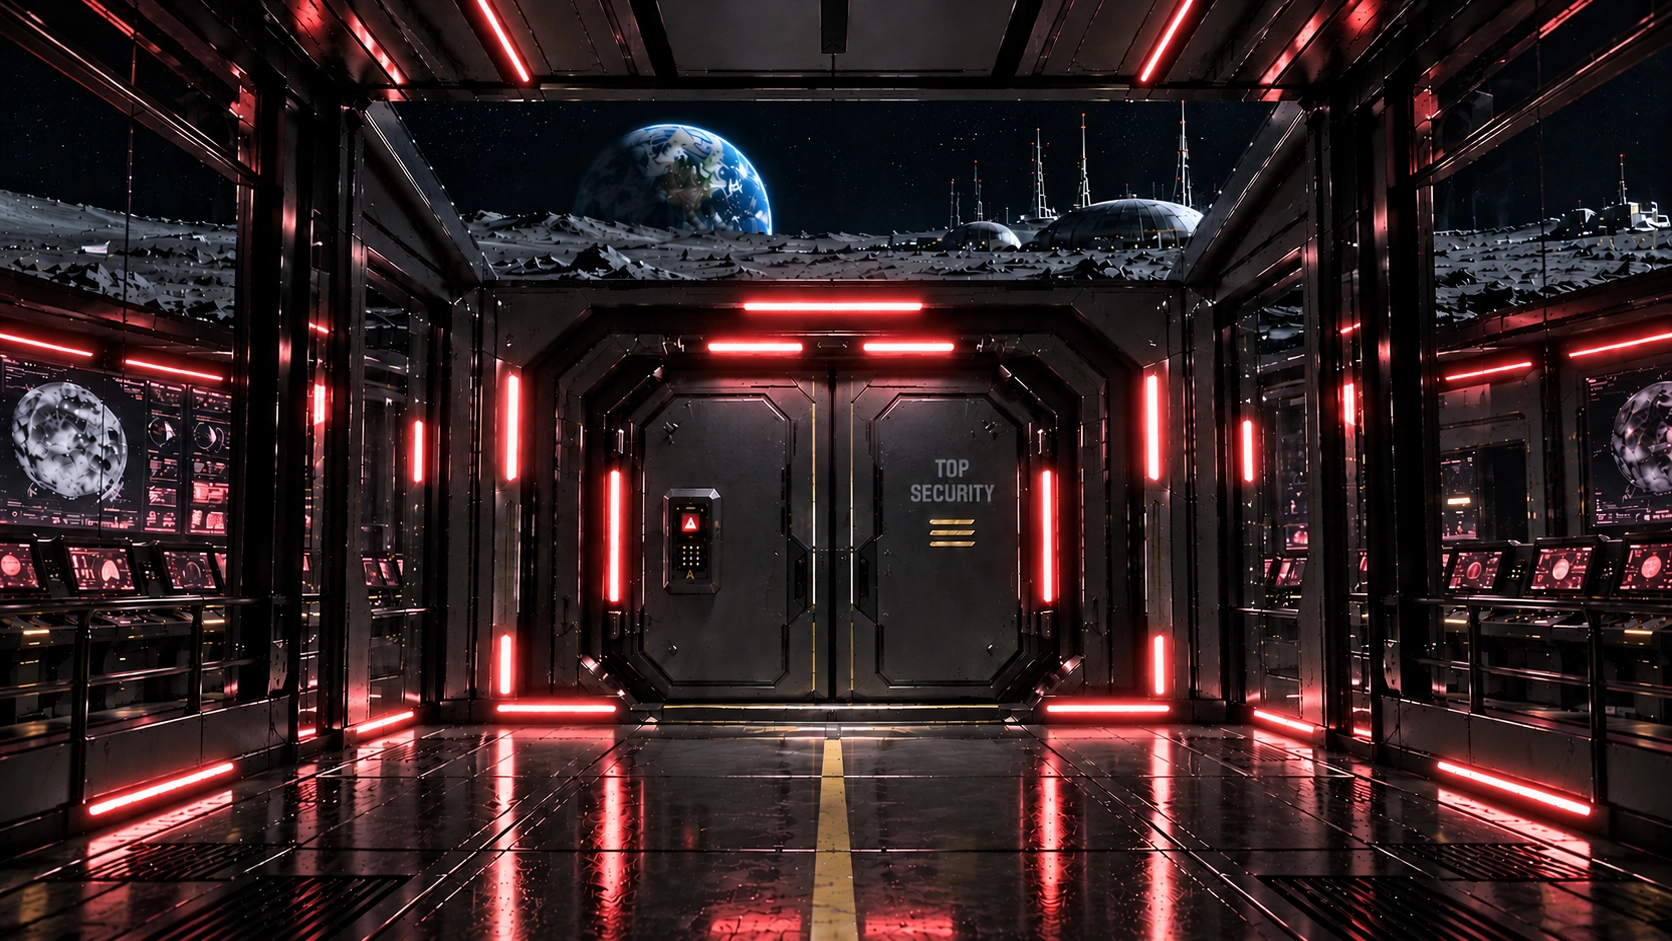
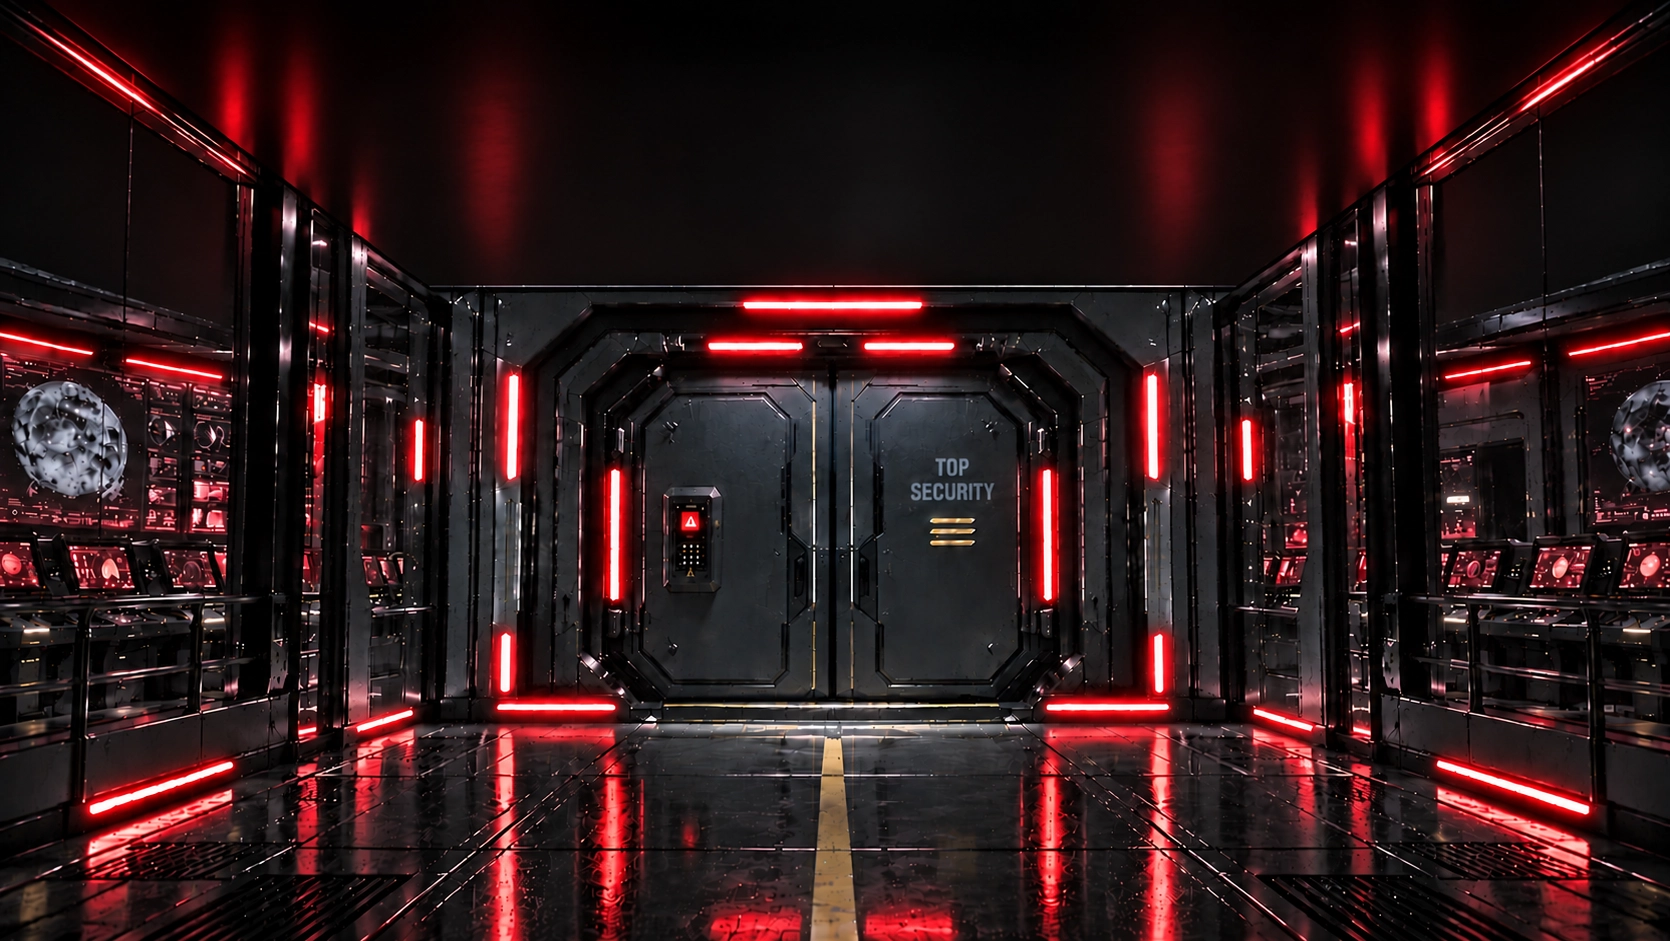
Arbetat på responsiviteten i layouten

diff --git a/css/style.css b/css/style.css
@@ -26,11 +26,9 @@ body::before {
     width: 100%;
     height: 100lvh;
     background-image:
-    linear-gradient(
-    rgba(120, 145, 165, 0.15),
-    rgba(120, 145, 165, 0.15)
-    ),
-    url('../images/background_mobile.webp');
+        linear-gradient(rgba(120, 145, 165, 0.15),
+            rgba(120, 145, 165, 0.15)),
+        url('../images/background_mobile.webp');
     background-size: cover;
     background-position: center;
     background-repeat: no-repeat;
@@ -205,11 +203,9 @@ h1 {
 /* Info area under mainlinks */
 .bottomsection {
     background-image:
-    linear-gradient(
-    rgba(0, 0, 0, 0.45),
-    rgba(0, 0, 0, 0.45)
-    ),
-    url("../images/main_infoarea.webp");
+        linear-gradient(rgba(0, 0, 0, 0.45),
+            rgba(0, 0, 0, 0.45)),
+        url("../images/main_infoarea.webp");
     background-size: cover;
     background-position: right center;
     background-repeat: no-repeat;
@@ -287,7 +283,7 @@ h1 {
     }
 
     .menu li:last-child {
-        margin-left: 160px;
+        margin-left: 0;
     }
 
     .menu a {
@@ -311,11 +307,9 @@ h1 {
         width: 100%;
         height: 100lvh;
         background-image:
-        linear-gradient(
-        rgba(120, 145, 165, 0.15),
-        rgba(120, 145, 165, 0.15)
-        ),
-        url('../images/background_desktop.webp');
+            linear-gradient(rgba(120, 145, 165, 0.15),
+                rgba(120, 145, 165, 0.15)),
+            url('../images/background_desktop.webp');
         background-size: cover;
         background-position: center;
         background-repeat: no-repeat;
@@ -371,10 +365,10 @@ h1 {
     .mainherologo {
         display: block;
         /* Gör bilden synlig */
-        width: 1100px;
+        width: 60%;
         margin: 0 0 2rem 12rem;
-        max-width: 90%;
-height: auto;
+        max-width: 1100px;
+        height: auto;
     }
 
     .basestatus {
@@ -409,13 +403,54 @@ height: auto;
         gap: 1rem;
     }
 
+    .mainherolinks a {
+        flex: 1;           /* Elementet får växa och krympa för att dela på befintligt utrymme i flexbox */
+        min-width: 0;
+        max-width: 600px;
+    }
+
     .mainherolinks img {
-        width: 600px;
+        /* För responsivitet så ska dessa bilder bli mindre beroende skärmstorlek */
+        width: 100%;
+        max-width: 600px;
         height: auto;
     }
 
     .bottomtext {
         max-width: 800px;
         margin-left: 10rem;
+    }
+}
+
+/* Responsiv navigering för mindre skärmbredder.
+   Mellan 768px och 1399px ersätts den horisontella
+   navigeringen med en hamburgarmeny för att förhindra
+   att menyalternativen radbryts eller överlappar.
+   Övrig desktop-layout behålls. */
+@media (min-width: 768px) and (max-width: 1399px) {
+    .menu-toggle {
+        display: block;
+    }
+
+    .menu {
+        display: none;
+    }
+
+    .menu.open {
+        display: block;
+    }
+
+    .menu {
+        position: absolute;
+        top: 100%;
+        right: 1rem;
+        width: max-content;
+        background-color: #050D16B3;
+        padding: 12px;
+        transform: none;
+    }
+
+    .menu ul {
+        display: block;
     }
 }

diff --git a/css/stylebase.css b/css/stylebase.css
@@ -24,6 +24,10 @@ body.base::before {
 }
 
 /* Huvudinnehåll HUVUDANLÄGGNING*/
+.stationhud {
+    display: none;
+}
+
 .basemaintext {
     background-size: cover;
     background-position: right center;
@@ -36,7 +40,7 @@ body.base::before {
 .basemaininfo {
     padding: 1.5rem;
     color: white;
-    text-align: left;
+    text-align: left
 }
 
 .basemaininfo h1 {
@@ -106,14 +110,39 @@ body.base::before {
         z-index: -1;
     }
 
+    @media (min-width: 768px) {
+    .stationhud {
+        display: block;
+    }
+}
+
+    .stationhud {
+        display: block;
+        height: auto;
+        margin-left: auto;
+        margin-right: 15rem;
+        width: 53%;
+        max-width: 900px;  /* För responsivitet */
+    }
+
+    .stationhud img {
+        width: 100%;
+        height: auto;
+    }
+
+    .basemaintext {
+    margin-top: 0;
+}
+
     .basemaininfo {
         background-color: rgba(5, 13, 22, 0.8);
         max-width: 80%;
         padding: 1.5rem;
         color: white;
         text-align: left;
-        margin: 35rem auto 0;
-        box-sizing: border-box;                /* Padding och border räknas in i den bredd och höjd du sätter, så elementet blir exakt så stort som du anger */
+        margin: 0 auto;
+        box-sizing: border-box;
+        /* Padding och border räknas in i den bredd och höjd du sätter, så elementet blir exakt så stort som du anger */
     }
 
     .basemaininfo h1 {

diff --git a/index.html b/index.html
@@ -48,14 +48,14 @@
     <!-- Länkar för Mobil -->   
     <div class="mainlinks">
         <a href="base.html"><img src="images/navmidmobile_base.png" alt="Huvudanläggningen"></a>
-        <a href="rimae.html"><img src="images/navmidmobile_rimae.png" alt="Rimae fältstation"></a>
-        <a href="science.html"><img src="images/navmidmobile_science.png" alt="Forskningsområden"></a>
+        <a href="systemcompromised.html"><img src="images/navmidmobile_rimae.png" alt="Rimae fältstation"></a>
+        <a href="systemcompromised.html"><img src="images/navmidmobile_science.png" alt="Forskningsområden"></a>
     </div>
     <!-- Länkar för Desktop -->  
         <div class="mainherolinks">
         <a href="base.html"><img src="images/navmid_base.png" alt="Huvudanläggningen"></a>
-        <a href="rimae.html"><img src="images/navmid_rimae.png" alt="Rimae fältstation"></a>
-        <a href="science.html"><img src="images/navmid_science.png" alt="Forskningsområden"></a>
+        <a href="systemcompromised.html"><img src="images/navmid_rimae.png" alt="Rimae fältstation"></a>
+        <a href="systemcompromised.html"><img src="images/navmid_science.png" alt="Forskningsområden"></a>
     </div>
 
     <section class="bottomsection">

diff --git a/css/stylesystemcompromised.css b/css/stylesystemcompromised.css
@@ -110,7 +110,6 @@ body::before {
 
 @media (min-width: 768px) {
 
-}
 
 body::before {
     content: "";
@@ -125,13 +124,14 @@ body::before {
             rgba(120, 145, 165, 0.15)),
         url('../images/backgrounsystem_desktop.webp');
     background-size: cover;
-    background-position: center;
+    background-position: center top;
     background-repeat: no-repeat;
     z-index: -1;
 }
 
 .system {
     width: 60%;
+    max-width: 1000px;
     margin: 6rem auto;
 }
 
@@ -146,5 +146,14 @@ body::before {
 .systeminfo {
     width: 60%;
     margin-top: 27rem;
+    max-width: 1000px;
 
+}
+  }
+
+  /* Anpassar informationsrutans placering på breda skärmar */
+@media (min-width: 1400px) {
+    .systeminfo {
+        margin-top: 33rem;
+    }
 }

diff --git a/css/stylesecure.css b/css/stylesecure.css
@@ -141,11 +141,12 @@ body.denied::before {
     margin: 0.8rem 0;
 }
 
+body.granted .securitypanel {    /* Anpassar rutans höjd efter innehållet vid godkänd behörighet */
+    height: auto;
+}
+
 /* Desktop */
 @media (min-width: 768px) {
-    .menu-toggle {
-        display: none;
-    }
 
    body::before {
     content: "";
@@ -188,10 +189,8 @@ body.denied::before {
         background-image: url("../images/securered_desktop.webp");
     }
 
-}
-
 .securitypanel {
     width: 800px;
     max-width: 90%;
     margin-top: 7rem;
-}
+}}

diff --git a/base.html b/base.html
@@ -39,6 +39,10 @@
         </nav>
     </header>
     <!-- Information om huvudanläggningen i 3 block -->
+    <div class="stationhud">
+        <img src="images/base_basestatusHUD.png" alt="HUD för station, information om status" class="hudimg">
+    </div>
+
     <section class="basemaintext">
 
         <div class="basemaininfo">

diff --git a/css/stylevisit.css b/css/stylevisit.css
@@ -282,7 +282,7 @@ body.visit::before {
         background-color: #08131D;
         width: 90%;
         padding: 1rem;
-        margin: 35rem auto 0;
+        margin: 55vh auto 0;
         font-size: 0.75rem;
         letter-spacing: 2px;
         font-weight: 500;
